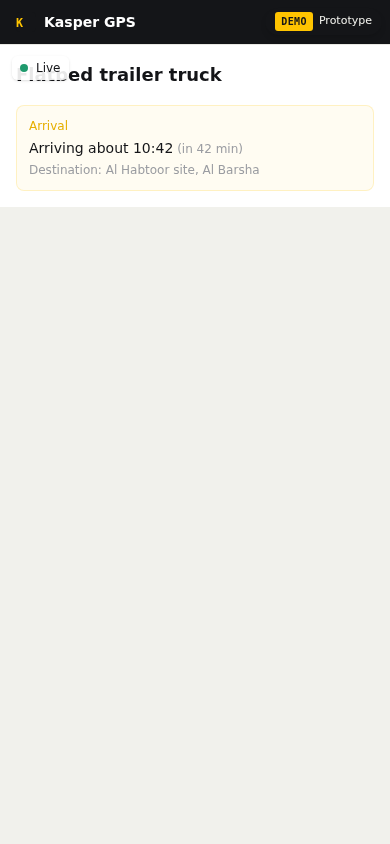
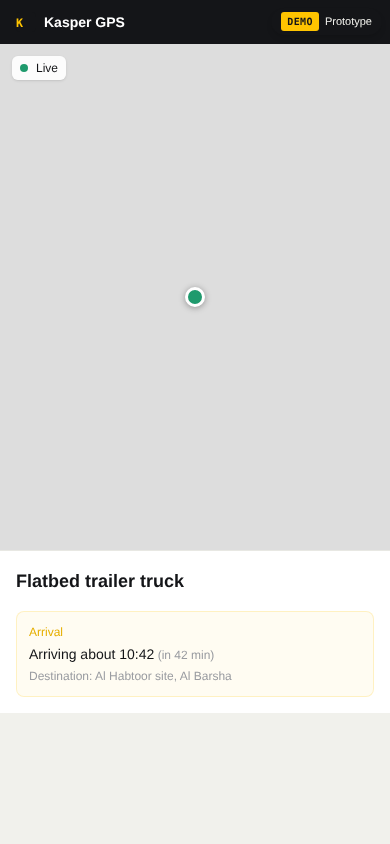
Tracking page: the map collapsed to 0 px on phones
In the phone column the map box's flex-1 gave it a 0 flex-basis, which wins
over h-[60vh], so the hirer saw no map or marker and the Live pill sat over
the asset name. flex-1 now applies only side by side (md+). A phone-layout
test checks the map is over 300 px tall with the name below it, and the J5
proof capture is regenerated.

Claude-Session: https://claude.ai/code/session_01QGpkLNE5RPBU12gVu8rJns

diff --git a/tests/e2e/phone-layout.spec.ts b/tests/e2e/phone-layout.spec.ts
@@ -87,3 +87,17 @@ test('the Scenarios menu opens inside a 390 px screen and shows at least 10 scen
   }
   expect(shown, 'scenarios visible without scrolling').toBeGreaterThanOrEqual(10);
 });
+
+// The hirer's tracking page shows its map on a phone (it once collapsed to 0 px tall there).
+test('the tracking page map has real height at 390 px, with the marker on it', async ({ page }) => {
+  test.skip((page.viewportSize()?.width ?? 0) > 500, 'phone layout only');
+  await page.setViewportSize({ width: 390, height: 844 });
+  await stubTiles(page);
+  await page.goto('/t/k7Qm2Xc9TpLw4ZaN8rVb3Ye5');
+  const map = page.locator('.leaflet-container').first();
+  await expect(map).toBeVisible();
+  const box = (await map.boundingBox())!;
+  expect(box.height, 'map height').toBeGreaterThan(300);
+  const title = (await page.getByRole('heading', { level: 1 }).boundingBox())!;
+  expect(title.y, 'the asset name sits below the map, not under the Live pill').toBeGreaterThanOrEqual(box.y + box.height);
+});

diff --git a/app/t/[token]/page.tsx b/app/t/[token]/page.tsx
@@ -116,7 +116,8 @@ export default function TrackingPage() {
       </header>
 
       <div className="flex flex-col md:flex-row">
-        <div className="flex-1 h-[60vh] md:h-[70vh] relative bg-paper-2">
+        {/* flex-1 only side by side: in the phone column a 0 flex-basis would collapse the map to 0 px. */}
+        <div className="w-full md:w-auto md:flex-1 h-[60vh] md:h-[70vh] relative bg-paper-2">
           <TrackingMap lat={resolved.lat} lng={resolved.lng} />
           <div className="absolute top-3 left-3 z-[500] flex items-center gap-2 bg-white/90 px-2 py-1 rounded-md shadow-sm">
             <div className="w-2 h-2 rounded-full bg-green animate-pulse" />
